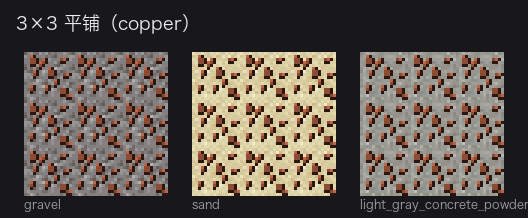
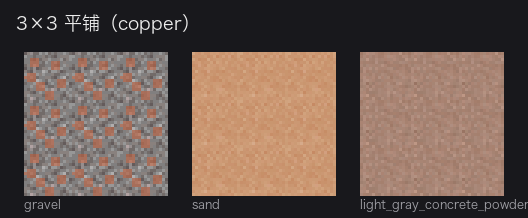
art: ore blocks follow the original base+mask+color scheme
对照原版 ImageManipulator（Recolor→Composite）与 Omnia 的 base/template 资源后改正：
三个方块态不是“画矿斑”，而是共用底图 + 单色遮罩 + 纯色按 alpha 混合。

实测参数（本项目按同一组数字重画，像素自有）：
- 矿砾：21% 覆盖，alpha 163（稀疏色斑，保留底图纹理）
- 矿砂：100% 覆盖，alpha 128-142（整面罩色）
- 矿尘：100% 覆盖，alpha 97-108（整面罩色，更淡）

实现：底图仍引用 vanilla（gravel / sand / light_gray_concrete_powder），
我方只出三张 16x16 遮罩 PNG，模型 tintindex 0 + translucent。

上一版 1px 碎点 + 描边的做法已废弃，ore_fleck*.png 删除。

diff --git a/art/blocks/ore_overlay/generate.py b/art/blocks/ore_overlay/generate.py
@@ -1,22 +1,23 @@
-"""Ore-block overlay: vanilla base texture + our own fleck layer.
+"""Ore-block colour masks: vanilla base + one flat colour wash (Ex Nihilo's scheme).
 
-Blocks stay vanilla-sampled (AGENTS 硬规则 2): the base face references
-minecraft:block/gravel (or sand / light_gray_concrete_powder) directly, and the
-only PNG we ship is this 16x16 fleck mask, tinted per material at runtime.
+原版/ Omnia 的方块都不是手绘矿块，而是三件套：
+    base(灰度) + template(单色 + alpha) -> 按 alpha 混合成最终贴图
 
-    矿砾方块 = minecraft:block/gravel              + ore_fleck (tintindex 0)
-    矿砂方块 = minecraft:block/sand                + ore_fleck
-    矿尘方块 = minecraft:block/light_gray_concrete_powder + ore_fleck
+我们换成 1.20.1 的做法：底图仍引用原版（vanilla-sampled，不打包），
+只出三张 16x16 的「遮罩」PNG，游戏里由 BlockColor 相乘上色，方块走 translucent。
+
+实测原版模板的覆盖与 alpha（本项目按同一组数字重画，像素是自己的）：
+    gravel 21% 覆盖, alpha 163  -> 稀疏色斑
+    sand   100% 覆盖, alpha 132 -> 整面罩色
+    dust   100% 覆盖, alpha 102 -> 整面罩色（更淡）
 
     python3 art/blocks/ore_overlay/generate.py
-
-The old hand-drawn block bodies were thrown away on purpose: they read as
-bright sticks at 16x16 and duplicated the vanilla look for no gain.
 """
 
 import importlib.util
 import json
 import os
+import random
 import zipfile
 from pathlib import Path
 
@@ -31,17 +32,9 @@ VANILLA_CACHE = HERE / ".vanilla_textures"
 _spec = importlib.util.spec_from_file_location("ore_pieces_gen", PIECES_DIR / "generate.py")
 _pieces = importlib.util.module_from_spec(_spec)
 _spec.loader.exec_module(_pieces)
-
 OSMIUM = ("#26313D", "#3F5B78", "#608FC4", "#8FB4DC", "#C4DCF4")
 _pieces.PALETTES.setdefault("osmium", OSMIUM)
 PALETTES = dict(_pieces.PALETTES)
-
-# 三个灰度：游戏中 BlockColor 相乘后得到 亮面/本体/描边；描边保证浅色金属在浅底也读得出来
-FLECK_BODY, FLECK_HI, FLECK_RIM = 0xBE, 0xFF, 0x3C
-
-# 1px 碎点的位置：按 5x5 网格抖动铺开，避免连成一条斜线（平铺时最忌讳这个）
-FLECKS = [(2, 2), (6, 3), (12, 2), (3, 7), (8, 6), (13, 7),
-          (2, 12), (7, 12), (12, 12), (5, 4), (10, 10), (14, 14)]
 
 BASES = {"gravel": "gravel", "sand": "sand", "dust": "light_gray_concrete_powder"}
 
@@ -57,7 +50,6 @@ def font(size):
 
 
 def vanilla_block(name):
-    """Extract one vanilla block texture into the gitignored cache (preview only)."""
     target = VANILLA_CACHE / "assets/minecraft/textures/block" / f"{name}.png"
     if not target.exists():
         target.parent.mkdir(parents=True, exist_ok=True)
@@ -66,30 +58,36 @@ def vanilla_block(name):
     return Image.open(target).convert("RGBA")
 
 
-def fleck_mask():
-    """16x16 grayscale fleck layer, transparent elsewhere. Shipped in-game."""
-    img = Image.new("RGBA", (16, 16), (0, 0, 0, 0))
-    cells = set(FLECKS)
-    for i, (x, y) in enumerate(FLECKS):
-        img.putpixel((x, y), (FLECK_BODY, FLECK_BODY, FLECK_BODY, 255))
-        if i % 3 == 2:  # 少数碎点画成横躺的两像素，破掉“小竖条”的重复感
-            if (x + 1, y) not in cells and x < 15:
-                img.putpixel((x + 1, y), (FLECK_HI, FLECK_HI, FLECK_HI, 255))
-            continue
-        if (x, y - 1) not in cells and y > 0:
-            img.putpixel((x, y - 1), (FLECK_HI, FLECK_HI, FLECK_HI, 255))
-    # 三个点画成 2x2 小簇
-    for x, y in FLECKS[::4]:
-        for dx, dy in ((1, 0), (0, 1), (1, 1)):
-            if (x + dx, y + dy) not in cells and x + dx < 16 and y + dy < 16:
-                img.putpixel((x + dx, y + dy), (FLECK_BODY, FLECK_BODY, FLECK_BODY, 255))
-    # 只补右下方向的投影（不是整圈描边，整圈会变成“小黑框”）
-    filled = {(x, y) for y in range(16) for x in range(16) if img.getpixel((x, y))[3]}
-    for x, y in sorted(filled):
-        for nx, ny in ((x + 1, y), (x, y + 1)):
-            if 0 <= nx < 16 and 0 <= ny < 16 and (nx, ny) not in filled:
-                if img.getpixel((nx, ny))[3] == 0:
-                    img.putpixel((nx, ny), (FLECK_RIM, FLECK_RIM, FLECK_RIM, 255))
+def gravel_mask(target=55, alpha=163):
+    """21% 覆盖、统一 alpha 163 的稀疏色斑（原版 gravel 模板就是这两档 alpha）。"""
+    centres = [(3, 3), (10, 4), (12, 10), (5, 11), (8, 14), (2, 8)]
+    cand = []
+    for cx, cy in centres:
+        for y in range(16):
+            for x in range(16):
+                d = ((x - cx) ** 2 + (y - cy) ** 2) ** 0.5
+                if d <= 2.6:
+                    cand.append((d, x, y))
+    cand.sort(key=lambda t: (t[0], t[1], t[2]))
+    picked = {(x, y) for _, x, y in cand[:target]}
+    return [[(255, 255, 255, alpha if (x, y) in picked else 0) for x in range(16)] for y in range(16)]
+
+
+def wash(level, jitter, seed):
+    """整面罩色：alpha 在 level±jitter 之间抖动，保证不是死板一块。"""
+    rng = random.Random(seed)
+    return [[(255, 255, 255, max(0, min(255, level + rng.randint(-jitter, jitter))))
+             for _ in range(16)] for _ in range(16)]
+
+
+def mask_image(kind):
+    rows = {"gravel": gravel_mask,
+            "sand": lambda: wash(132, 12, 21),
+            "dust": lambda: wash(102, 10, 33)}[kind]()
+    img = Image.new("RGBA", (16, 16))
+    for y in range(16):
+        for x in range(16):
+            img.putpixel((x, y), rows[y][x])
     return img
 
 
@@ -99,19 +97,19 @@ def _rgb(h):
 
 
 def composite(metal, kind):
-    """Preview: vanilla base multiplied by the tinted fleck layer (BlockColor 的近似)."""
+    """预览：按 alpha 把纯色混到底图上，等价于游戏里的 tint + translucent。"""
     base = vanilla_block(BASES[kind]).copy()
-    pal = [_rgb(c) for c in PALETTES[metal]]
-    mask = fleck_mask()
-    tint_body = pal[2]
+    col = _rgb(PALETTES[metal][2])
+    m = mask_image(kind)
     for y in range(16):
         for x in range(16):
-            px = mask.getpixel((x, y))
-            if not px[3]:
+            a = m.getpixel((x, y))[3] / 255.0
+            if a <= 0:
                 continue
-            k = px[0] / 255.0          # 与游戏内 tint 相乘等价
-            col = tuple(min(255, int(c * k)) for c in tint_body)
-            base.putpixel((x, y), col + (255,))
+            br, bg, bb, _ = base.getpixel((x, y))
+            base.putpixel((x, y), (int(col[0] * a + br * (1 - a)),
+                                   int(col[1] * a + bg * (1 - a)),
+                                   int(col[2] * a + bb * (1 - a)), 255))
     return base
 
 
@@ -127,27 +125,18 @@ def rarity_of(metal):
     return next((m["rarity"] for m in mats if m["id"] == metal), "?")
 
 
-def six_states():
-    fal = fleck_mask()
-    fal.save(HERE / "ore_fleck.png")
-    # 白色版也导一份，方便看 mask 本身
-    white = Image.new("RGBA", (16, 16), (0, 0, 0, 0))
-    for y in range(16):
-        for x in range(16):
-            v = fal.getpixel((x, y))
-            if v[3]:
-                white.putpixel((x, y), (255, 255, 255, 255))
-    white.save(HERE / "ore_fleck_mask.png")
+def main():
+    for kind, name in (("gravel", "ore_mask_gravel"), ("sand", "ore_mask_sand"), ("dust", "ore_mask_dust")):
+        mask_image(kind).save(HERE / f"{name}.png")
 
     metals = list(PALETTES)
     steps = [("broken", "破碎矿", None), ("gravel", "矿砾方块", "gravel"),
-             ("crushed", "粉碎矿", None, ), ("sand", "矿砂方块", "sand"),
+             ("crushed", "粉碎矿", None), ("sand", "矿砂方块", "sand"),
              ("powdered", "粉末", None), ("dust", "矿尘方块", "dust")]
-    scale, cell = 4, 64
-    left, row_h = 118, cell + 20
-    sheet = Image.new("RGB", (left + len(steps) * (cell + 14) + 18, 88 + len(metals) * row_h + 10), (24, 24, 28))
+    cell, left, row_h = 64, 118, 84
+    sheet = Image.new("RGB", (left + 6 * (cell + 14) + 18, 88 + len(metals) * row_h + 10), (24, 24, 28))
     d = ImageDraw.Draw(sheet)
-    d.text((16, 14), "六态（方块 = 原版底 + 自有矿斑叠加）", font=font(22), fill=(238, 238, 238))
+    d.text((16, 14), "六态（方块 = 原版底 + 纯色按 alpha 混合）", font=font(22), fill=(238, 238, 238))
     for j, (_, cap, _) in enumerate(steps):
         d.text((left + j * (cell + 14), 54), cap, font=font(14), fill=(168, 168, 174))
     for i, metal in enumerate(metals):
@@ -162,10 +151,8 @@ def six_states():
             sheet.paste(ci, (left + j * (cell + 14), y))
     sheet.save(HERE / "preview_six_states.png")
 
-    # 3x3 平铺：检查叠加层在重复纹理下会不会露馅
     tile = 48
-    tw = 24 + 3 * (tile * 3 + 24)
-    tl = Image.new("RGB", (tw, 74 + tile * 3), (24, 24, 28))
+    tl = Image.new("RGB", (24 + 3 * (tile * 3 + 24), 74 + tile * 3), (24, 24, 28))
     td = ImageDraw.Draw(tl)
     td.text((16, 14), "3×3 平铺（copper）", font=font(18), fill=(236, 236, 236))
     for i, kind in enumerate(("gravel", "sand", "dust")):
@@ -176,9 +163,8 @@ def six_states():
                 tl.paste(src, (x0 + tx * tile, y0 + ty * tile), src)
         td.text((x0, y0 + tile * 3 + 2), BASES[kind], font=font(12), fill=(160, 160, 166))
     tl.save(HERE / "preview_tiling.png")
-    return len(metals)
+    print(f"wrote 3 masks + previews ({len(metals)} metals)")
 
 
 if __name__ == "__main__":
-    n = six_states()
-    print(f"wrote ore_fleck.png, ore_fleck_mask.png, preview_six_states.png, preview_tiling.png ({n} metals)")
+    main()

diff --git a/docs/textures.md b/docs/textures.md
@@ -49,24 +49,36 @@ assets/exnihilosatellitium/textures/
 `python3 scripts/generate_barrel_variants.py` 从同一张表生成，几何仍只维护
 `models/block/barrel_base.json`。新增木种 = 在脚本表里加一行 + 补 lang。
 
-## 矿物方块（M2 起）：原版底 + 自有矿斑叠加
+## 矿物方块（M2 起）：底图 + 遮罩 + 纯色，按 alpha 混合
 
-方块**不手绘底图**，走 vanilla-sampled：
+原版与 Omnia 都不是“画矿块”，而是三件套：**共用底图 + 共用遮罩（单色 + alpha）+ 一个纯色**，
+运行期按 alpha 混成最终贴图（`ImageManipulator.Recolor` → `Composite`）。
+实测它们的遮罩参数（我们按同一组数字重画，像素是自己的）：
 
-| 方块 | 底图（引用，不打包） | 叠加层 |
+| 状态 | 遮罩覆盖 | 遮罩 alpha | 读感 |
+|---|---|---|---|
+| 矿砾方块 | 21%（稀疏斑块） | 163 ≈ 64% | 砂砾上叠局部色斑，底图纹理保留 |
+| 矿砂方块 | 100%（整面） | 128–142 ≈ 50% | 整块罩一层半透明色，接近纯色 |
+| 矿尘方块 | 100%（整面） | 97–108 ≈ 40% | 同上，更淡 |
+
+1.20.1 不做运行期合图，改成 **vanilla 底 + 我们的遮罩 + BlockColor**：
+
+| 方块 | 底图（引用，不打包） | 遮罩 |
 |---|---|---|
-| 矿砾方块 | `minecraft:block/gravel` | `exnihilosatellitium:block/ore_fleck` |
-| 矿砂方块 | `minecraft:block/sand` | 同上 |
-| 矿尘方块 | `minecraft:block/light_gray_concrete_powder` | 同上 |
+| 矿砾方块 | `minecraft:block/gravel` | `ore_mask_gravel`（21% / 163） |
+| 矿砂方块 | `minecraft:block/sand` | `ore_mask_sand`（100% / 132） |
+| 矿尘方块 | `minecraft:block/light_gray_concrete_powder` | `ore_mask_dust`（100% / 102） |
 
-- 叠加层是**唯一**随包分发的 PNG（`art/blocks/ore_overlay/ore_fleck.png`，16×16）：
-  三档灰（亮面 `FF`、本体 `BE`、投影 `3C`），游戏里由 `BlockColor` 相乘得到材料色。
-- 模型两个 element：底 cube `tintindex -1`（不吃色），叠加面 `tintindex 0`（吃色），
-  外扩 0.01 防 z-fighting，`render_type: cutout`。
-- 预览：`python3 art/blocks/ore_overlay/generate.py`（会从本机 client-extra.jar 抽底图到
-  gitignore 的 `.vanilla_textures/`，仅用于预览）。
+- 三张遮罩是**唯一**随包分发的方块 PNG（`art/blocks/ore_overlay/`，16×16，白色 + alpha）。
+- 模型两个 element：底 cube `tintindex -1` 不吃色；遮罩面 `tintindex 0` 吃 `BlockColor`。
+  方块 render layer 设 `translucent`，才能得到半透明罩色。
+- 预览：`python3 art/blocks/ore_overlay/generate.py`。
 
-曾尝试按材料生成整套方块底图，16×16 下会读成小方块或竖条，已废弃，别再走。
+**别走的两条路**（都试过，效果不对）：
+
+1. 按材料生成整套方块底图——16×16 下自绘噪点读成小方块或竖条。
+2. 在底图上画“清晰的矿斑/碎点”——原版是**纯色罩色**，不是有明暗的碎块；画碎点会变成另一种美术语言，
+   和物品三态打架。
 
 ## 矿物碎块（M5 预览）
 
